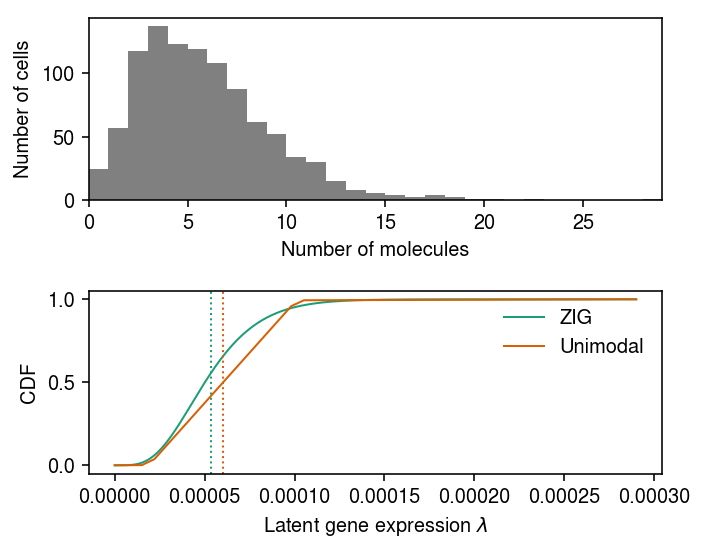
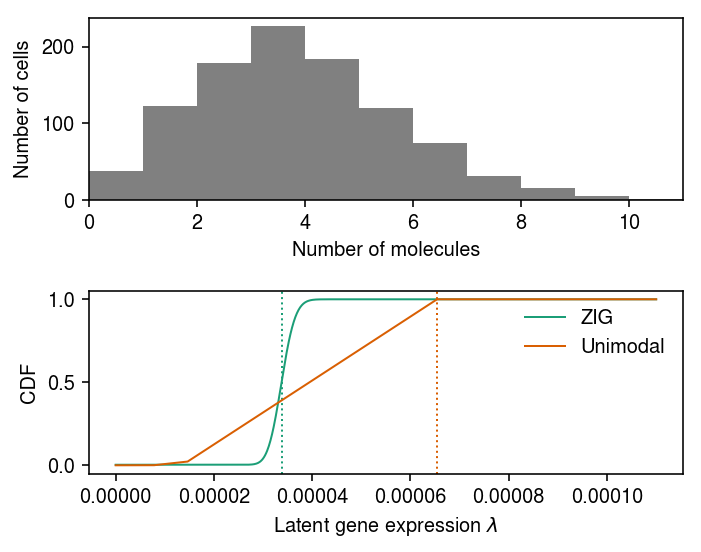
Try to fix unimodal GOF

diff --git a/docs/gof.html b/docs/gof.html
@@ -1,7 +1,7 @@
 <!DOCTYPE html>
 <html lang="en">
 <head>
-<!-- 2019-09-26 Thu 21:12 -->
+<!-- 2019-09-27 Fri 13:37 -->
 <meta charset="utf-8">
 <meta name="viewport" content="width=device-width, initial-scale=1">
 <title>Goodness of fit of deconvolved distributions</title>
@@ -262,7 +262,7 @@ for the JavaScript code in this tag.
 <li><a href="#setup">Setup</a></li>
 <li><a href="#org9458460">Methods</a>
 <ul>
-<li><a href="#orga204b4e">Test for goodness of fit</a></li>
+<li><a href="#org06766fc">Test for goodness of fit</a></li>
 <li><a href="#org1e959d4">Poisson-unimodal goodness of fit</a></li>
 <li><a href="#orgfd5c235">Data</a></li>
 </ul>
@@ -341,9 +341,9 @@ Here, we directly test for the goodness of fit of the estimated distribution
 <h2 id="org9458460">Methods</h2>
 <div class="outline-text-2" id="text-org9458460">
 </div>
-<div id="outline-container-orga204b4e" class="outline-3">
-<h3 id="orga204b4e">Test for goodness of fit</h3>
-<div class="outline-text-3" id="text-orga204b4e">
+<div id="outline-container-org06766fc" class="outline-3">
+<h3 id="org06766fc">Test for goodness of fit</h3>
+<div class="outline-text-3" id="text-org06766fc">
 <p>
 The key idea underlying our test for goodness of fit is the fact that if
 \(x_{i} \sim F(\cdot)\), then \(F(x_{i}) \sim \operatorname{Uniform}(0,
@@ -622,7 +622,7 @@ Look at an example:
 rpy2.robjects.pandas2ri.activate()
 <span class="org-variable-name">ashr</span> = rpy2.robjects.packages.importr(<span class="org-string">'ashr'</span>)
 
-<span class="org-variable-name">data</span>, <span class="org-variable-name">_</span> = scqtl.simulation.simulate(num_samples=1000, logodds=-5, seed=0)
+<span class="org-variable-name">data</span>, <span class="org-variable-name">_</span> = scqtl.simulation.simulate(num_samples=1000, logodds=-5, seed=2)
 <span class="org-variable-name">x</span> = pd.Series(data[:,0])
 <span class="org-variable-name">s</span> = pd.Series(data[:,1])
 <span class="org-variable-name">lam</span> = x / s
@@ -634,6 +634,8 @@ rpy2.robjects.pandas2ri.activate()
   outputlevel=pd.Series([<span class="org-string">'loglik'</span>, <span class="org-string">'fitted_g'</span>]),
   <span class="org-comment-delimiter"># </span><span class="org-comment">numpy2ri doesn't DTRT, so we need to use pandas</span>
   lik=ashr.lik_pois(y=x, scale=s, link=<span class="org-string">'identity'</span>),
+  prior=<span class="org-string">'uniform'</span>,
+  mixcompdist=<span class="org-string">'halfuniform'</span>,
   mixsd=pd.Series(np.geomspace((.5 / s).<span class="org-builtin">min</span>(), lam.<span class="org-builtin">max</span>(), 25)),
   mode=pd.Series([lam.<span class="org-builtin">min</span>(), lam.<span class="org-builtin">max</span>()]))
 <span class="org-variable-name">grid</span> = np.linspace(lam.<span class="org-builtin">min</span>(), lam.<span class="org-builtin">max</span>(), 1000)
@@ -694,8 +696,8 @@ Report the log likelihood.
 </div>
 
 <pre class="example">
-zig        -2542.181486
-unimodal   -2566.495086
+zig        -2008.407921
+unimodal   -2076.713111
 dtype: float64
 </pre>
 
@@ -711,7 +713,7 @@ Report the goodness of fit.
 </div>
 
 <pre class="example">
-KstestResult(statistic=0.017599923681100874, pvalue=0.9160786776117419)
+KstestResult(statistic=0.02170999399592824, pvalue=0.7335259999575676)
 
 </pre>
 
@@ -721,14 +723,14 @@ KstestResult(statistic=0.017599923681100874, pvalue=0.9160786776117419)
 </div>
 
 <pre class="example">
-('', 0.1068304085858266, 2.1574276423860724e-10)
+('', 0.12995423187566046, 3.484390894026589e-15)
 
 </pre>
 </div>
 </div>
 
-<div id="outline-container-org913fa46" class="outline-3">
-<h3 id="gof"><a id="org913fa46"></a>Test for goodness of fit</h3>
+<div id="outline-container-org253aa4e" class="outline-3">
+<h3 id="gof"><a id="org253aa4e"></a>Test for goodness of fit</h3>
 <div class="outline-text-3" id="text-gof">
 <p>
 Run the GPU-based methods.
@@ -1006,7 +1008,7 @@ fig.tight_layout()
 </div>
 <div id="postamble" class="status">
 <p class="author">Author: Abhishek Sarkar</p>
-<p class="date">Created: 2019-09-26 Thu 21:12</p>
+<p class="date">Created: 2019-09-27 Fri 13:37</p>
 <p class="validation"><a href="http://validator.w3.org/check?uri=referer">Validate</a></p>
 </div>
 </body>
